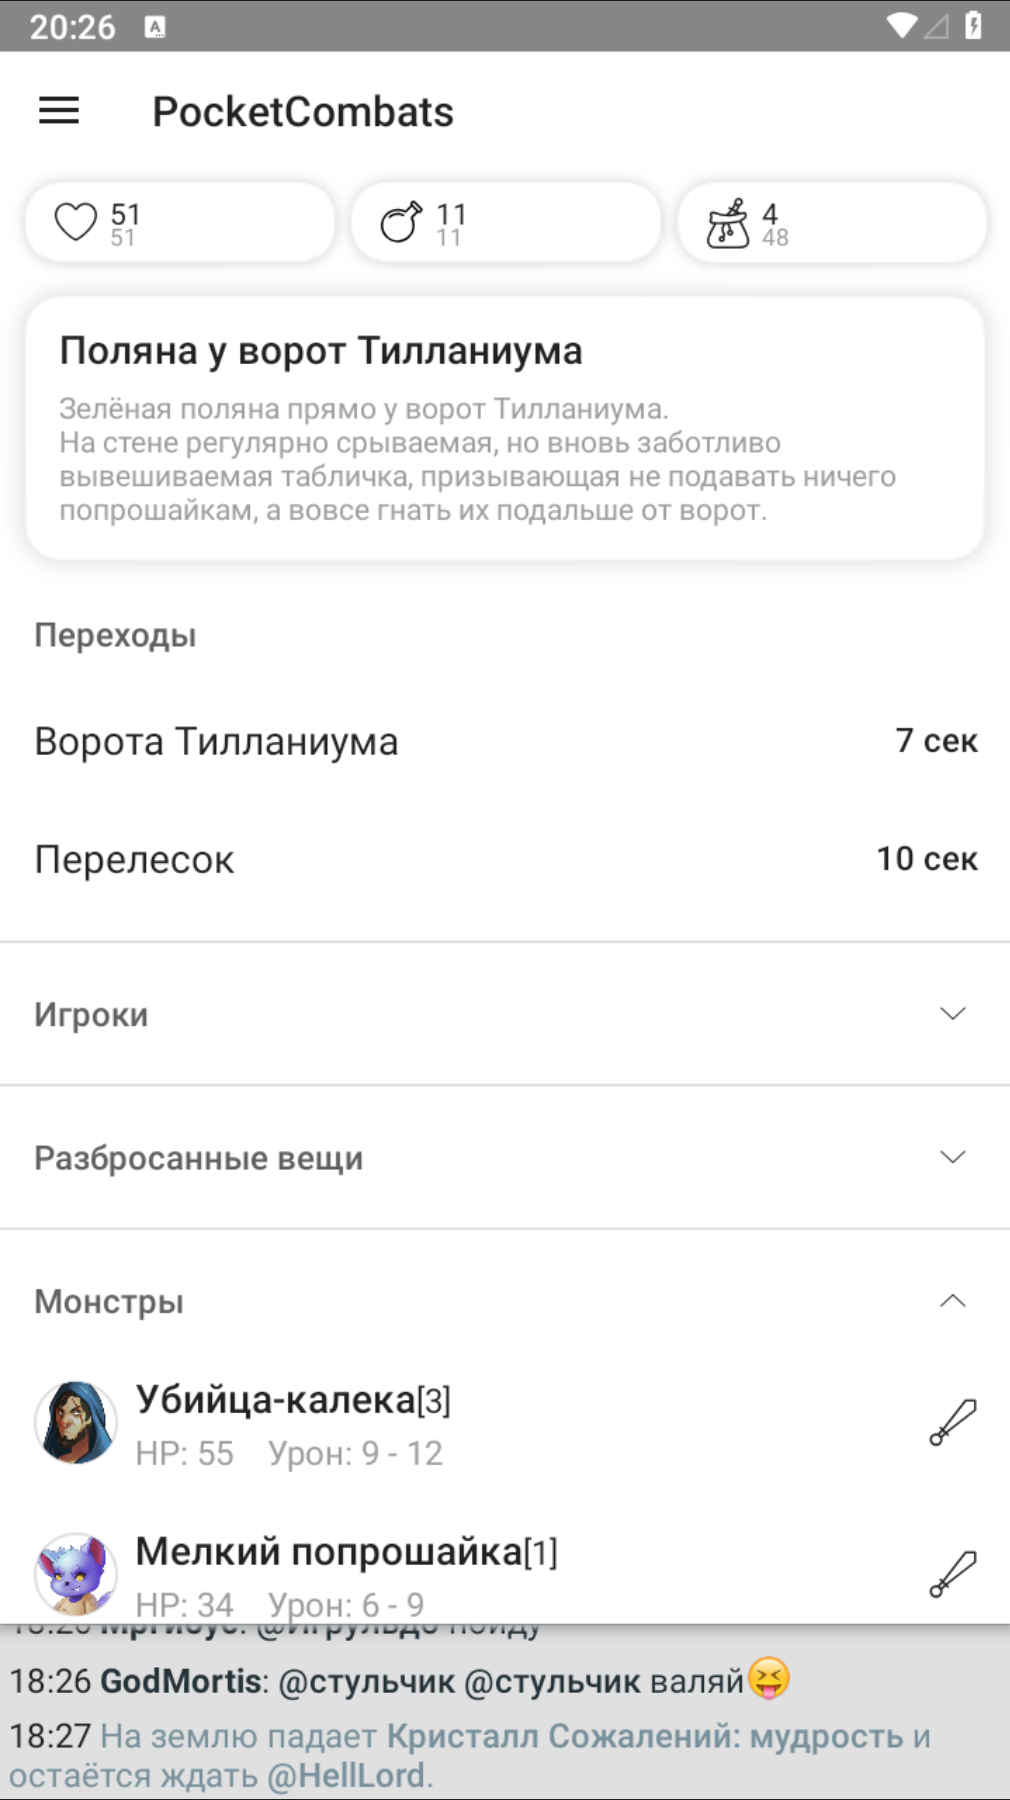
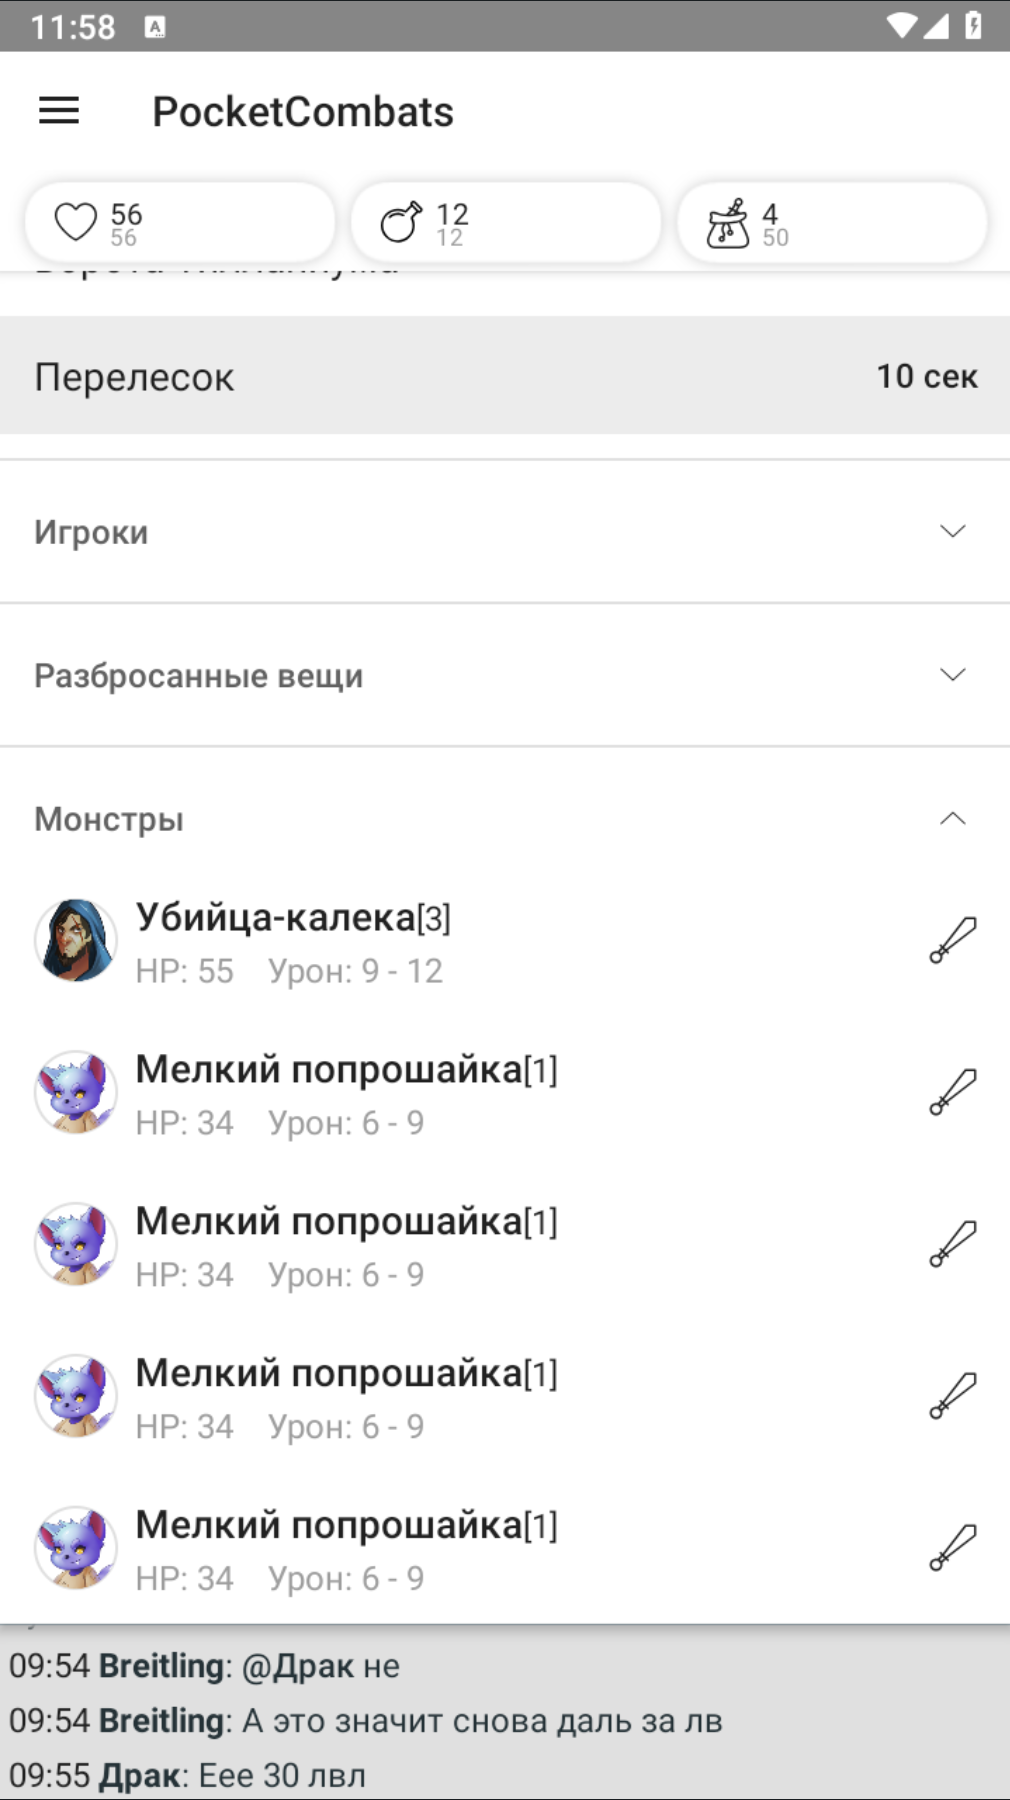
Сделал обрезку активного окна поиска от центра координат картинки нужного моба до нижней правой части эмулятора. Завернул всё в функцию.

diff --git a/moveOnWindow.py b/moveOnWindow.py
@@ -28,22 +28,21 @@ MemuWindow_CoordinateDown = display_width // 2 + MemuWindow_width // 2
 base_screen = ImageGrab.grab(bbox=(int(MemuWindow_CoordinateUp), 0, int(MemuWindow_CoordinateDown), display_height))
 base_screen.save('/Users/Andrew/Documents/GitHub/PocketCombatsBot/base_screen.png')
 
-stop = None
-while stop != True:
+def StartCombat():
+    box = pag.locateOnScreen('Mobe.png', confidence=0.8)
+    print(box)
+    MobePoint = pag.center(box)
+    print(MobePoint, MobePoint.x, MobePoint.y)
     try:
-        box = pag.locateOnScreen('StartCombatButton.png', confidence=0.8)
+        box = pag.locateOnScreen('StartCombatButton.png', confidence=0.8, region=(MobePoint.x, MobePoint.y, int(MemuWindow_CoordinateDown), display_height))
         StartCombatButtonPoint = pag.center(box)
         pag.click(StartCombatButtonPoint.x, StartCombatButtonPoint.y)
-        stop = True
     except:
-        time.sleep(3)
+        pag.scroll(random.randint(-15, -7))
+        time.sleep(random.randint(1, 3))
+        box = pag.locateOnScreen('StartCombatButton.png', confidence=0.8, region=(MobePoint.x, MobePoint.y, int(MemuWindow_CoordinateDown), display_height))
+        StartCombatButtonPoint = pag.center(box)
+        pag.click(StartCombatButtonPoint.x, StartCombatButtonPoint.y)
 
-#try:
-#    pag.moveTo(pag.locateOnScreen('StartCombatButton.png'))
-#    pag.click()
-#except:
-#    pag.scroll(random.randint(-15, -8))
- #   pag.moveTo(pag.locateOnScreen('StartCombatButton.png'))
-#    pag.click()
-#    time.sleep(random.randint(1, 5))
-#clean_screen.save('/Users/Andrew/Documents/GitHub/PocketCombatsBot/clean_screen.png')
+StartCombat()
+
